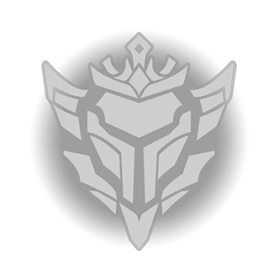
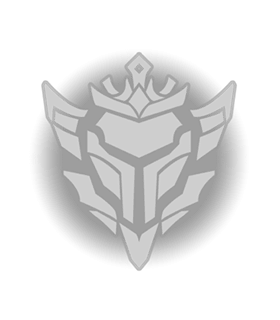
Tftrank updates
- hyperrol emblems
- robustness

diff --git a/commands/tftrank.js b/commands/tftrank.js
@@ -69,8 +69,14 @@ module.exports = {
         }
         hyperRank = hyperRank.substring(0, 1) + hyperRank.substring(1).toLowerCase();
         rank = rank.substring(0, 1)+ rank.substring(1).toLowerCase();
+        if (hyperRank == 'Unranked') {
+            hyperEmblem = 'assets/ranked-emblems/grey_tier.png';
+        } else {
+            hyperEmblem = 'assets/ranked-emblems/'+hyperRank+'_tier.png';
+        }
         hyperRank = hyperRank+' Tier';
         var embedColor = getRankColor(rank);
+
 
         function getRankColor(rank) {
             switch (rank) {
@@ -114,13 +120,13 @@ module.exports = {
             .setColor(embedColor)
             .setTitle('')
             .addField(''+tftData.name, '\u200b', true)
-            .addField('Rank: '+rank, '\u200b', false)
             .addField('Hyperrol rank: '+hyperRank, '\u200b', false)
+            .addField('Rank: '+rank, '\u200b', false)
             .setImage('attachment://rankedImg.png')
             .setThumbnail('attachment://icon.png');
 
         await interaction.reply({ embeds: [exampleEmbed], 
-			files: [{ attachment: icon, name:'icon.png'},
+			files: [{ attachment: hyperEmblem, name:'icon.png'},
              {attachment:'assets/ranked-emblems/emblem_'+ rank +'.png', name:'rankedImg.png'}]
         });
                       
